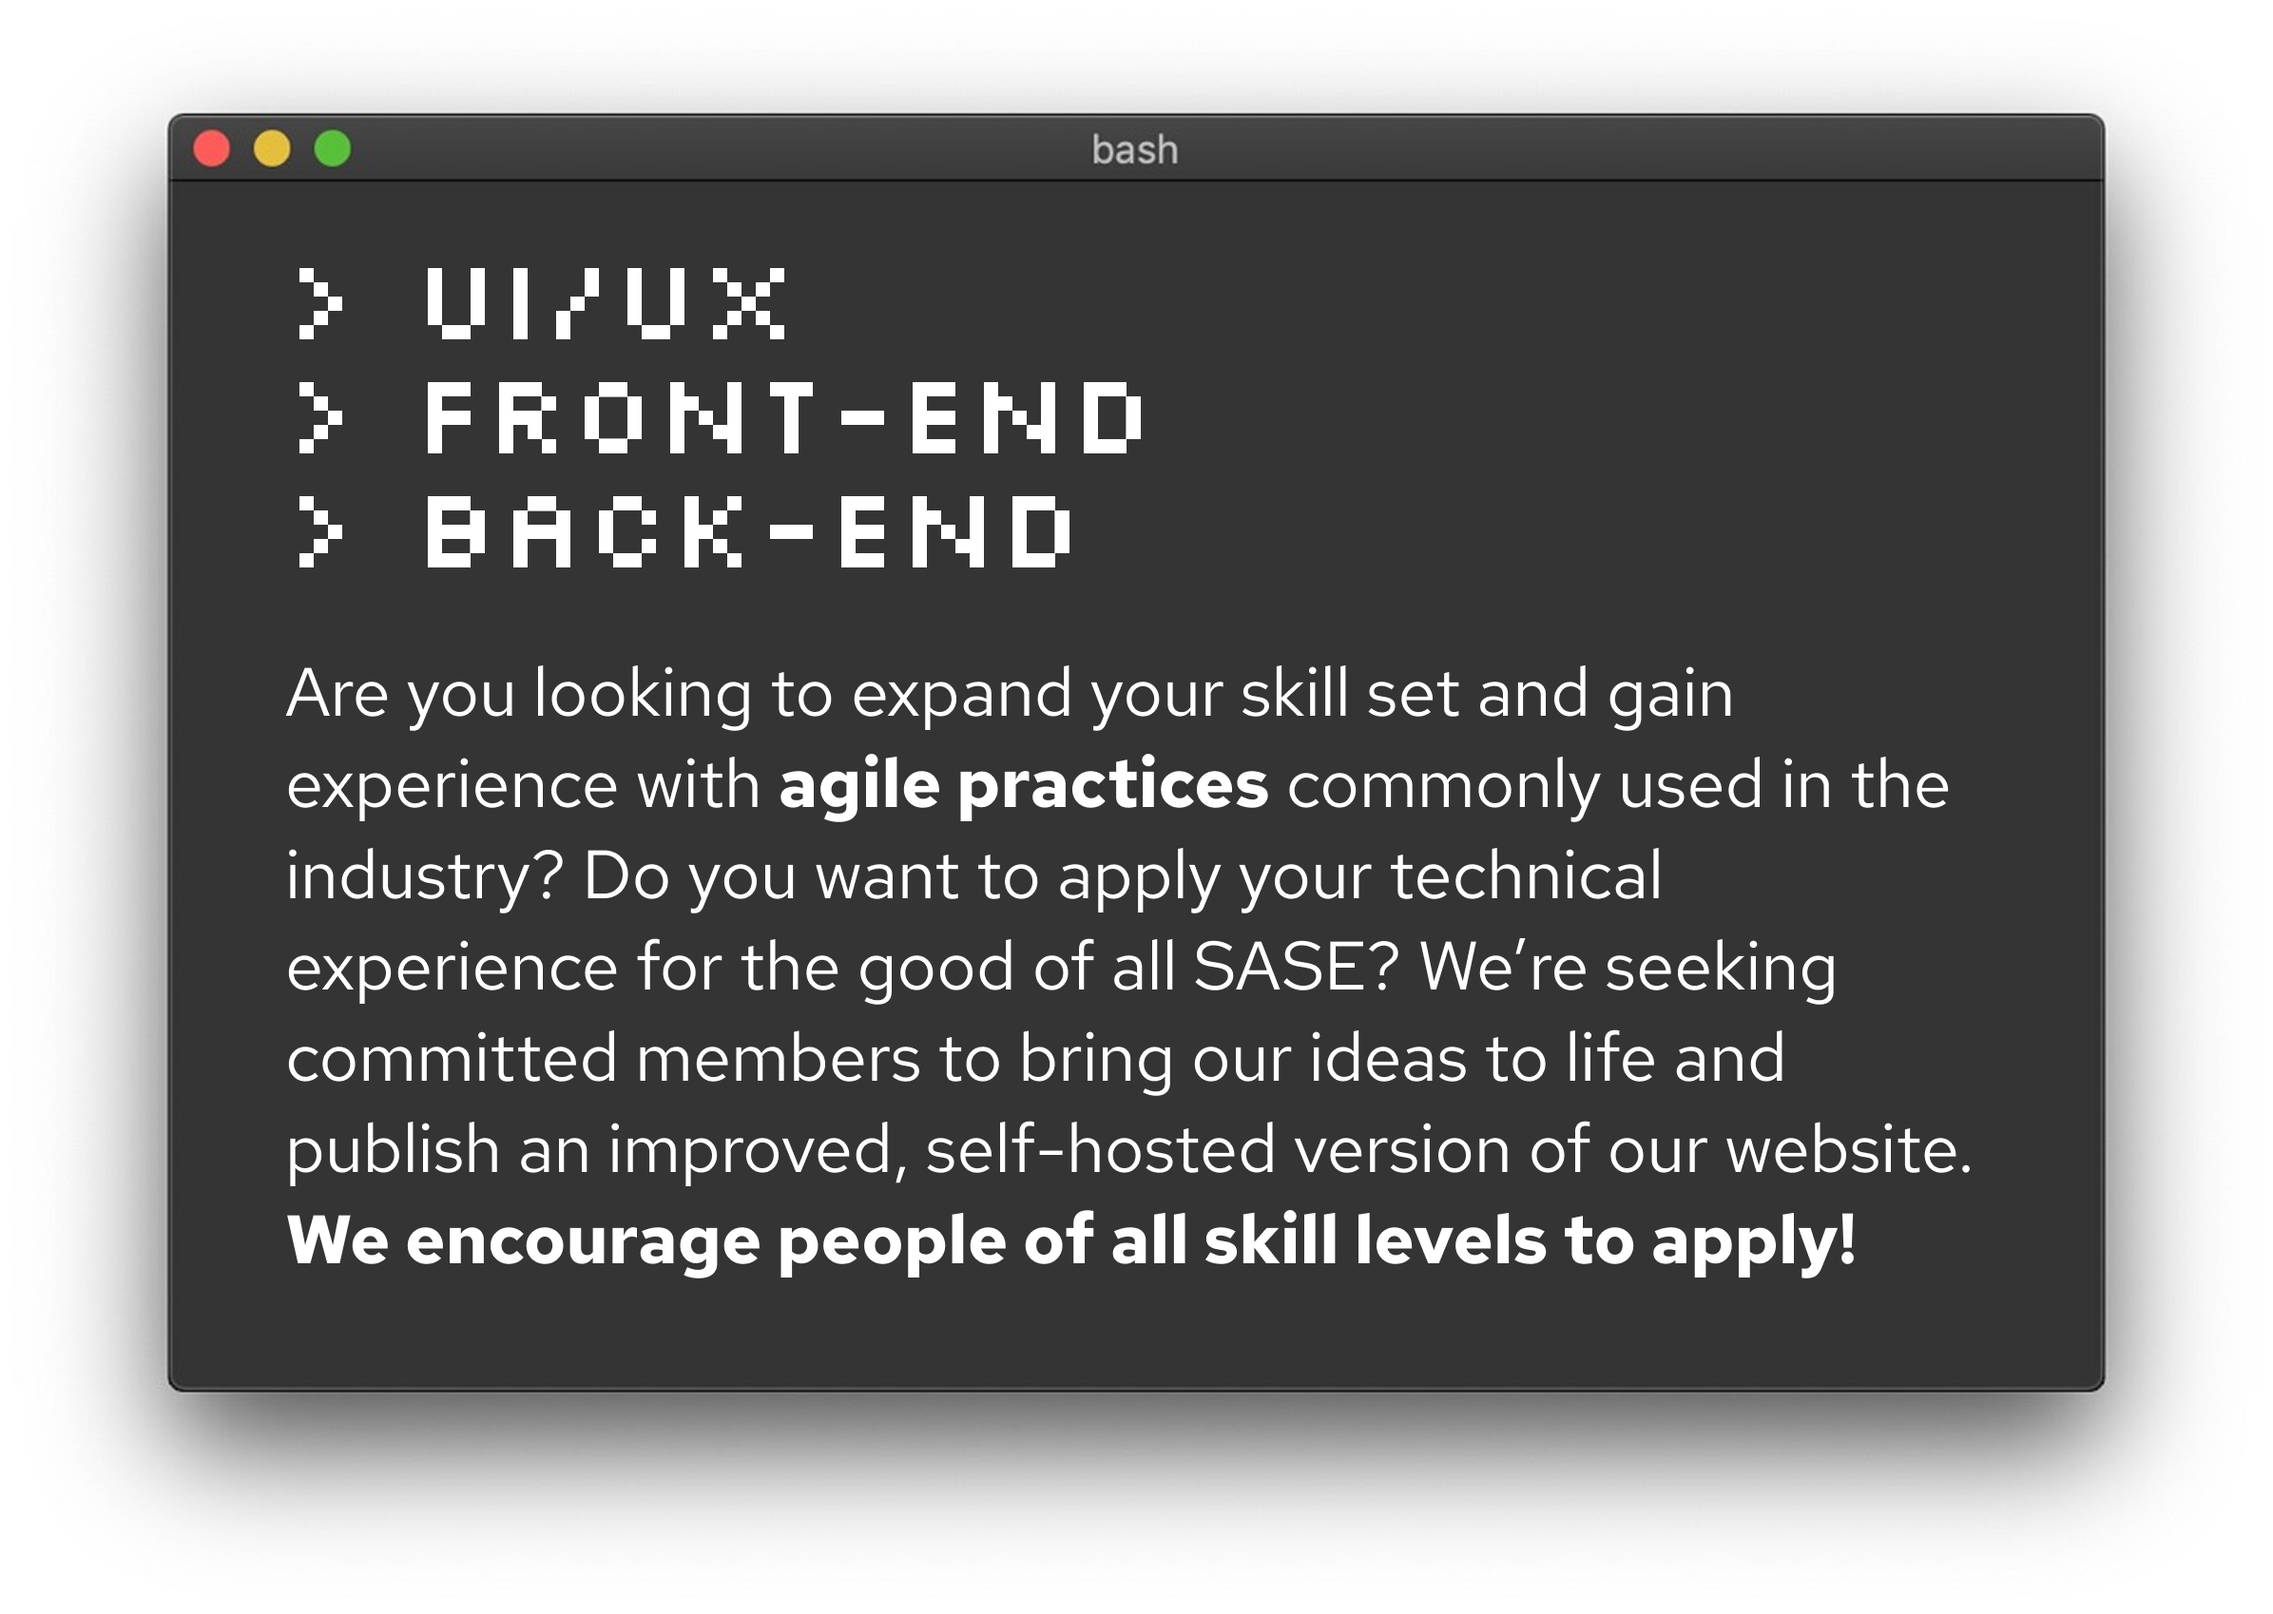
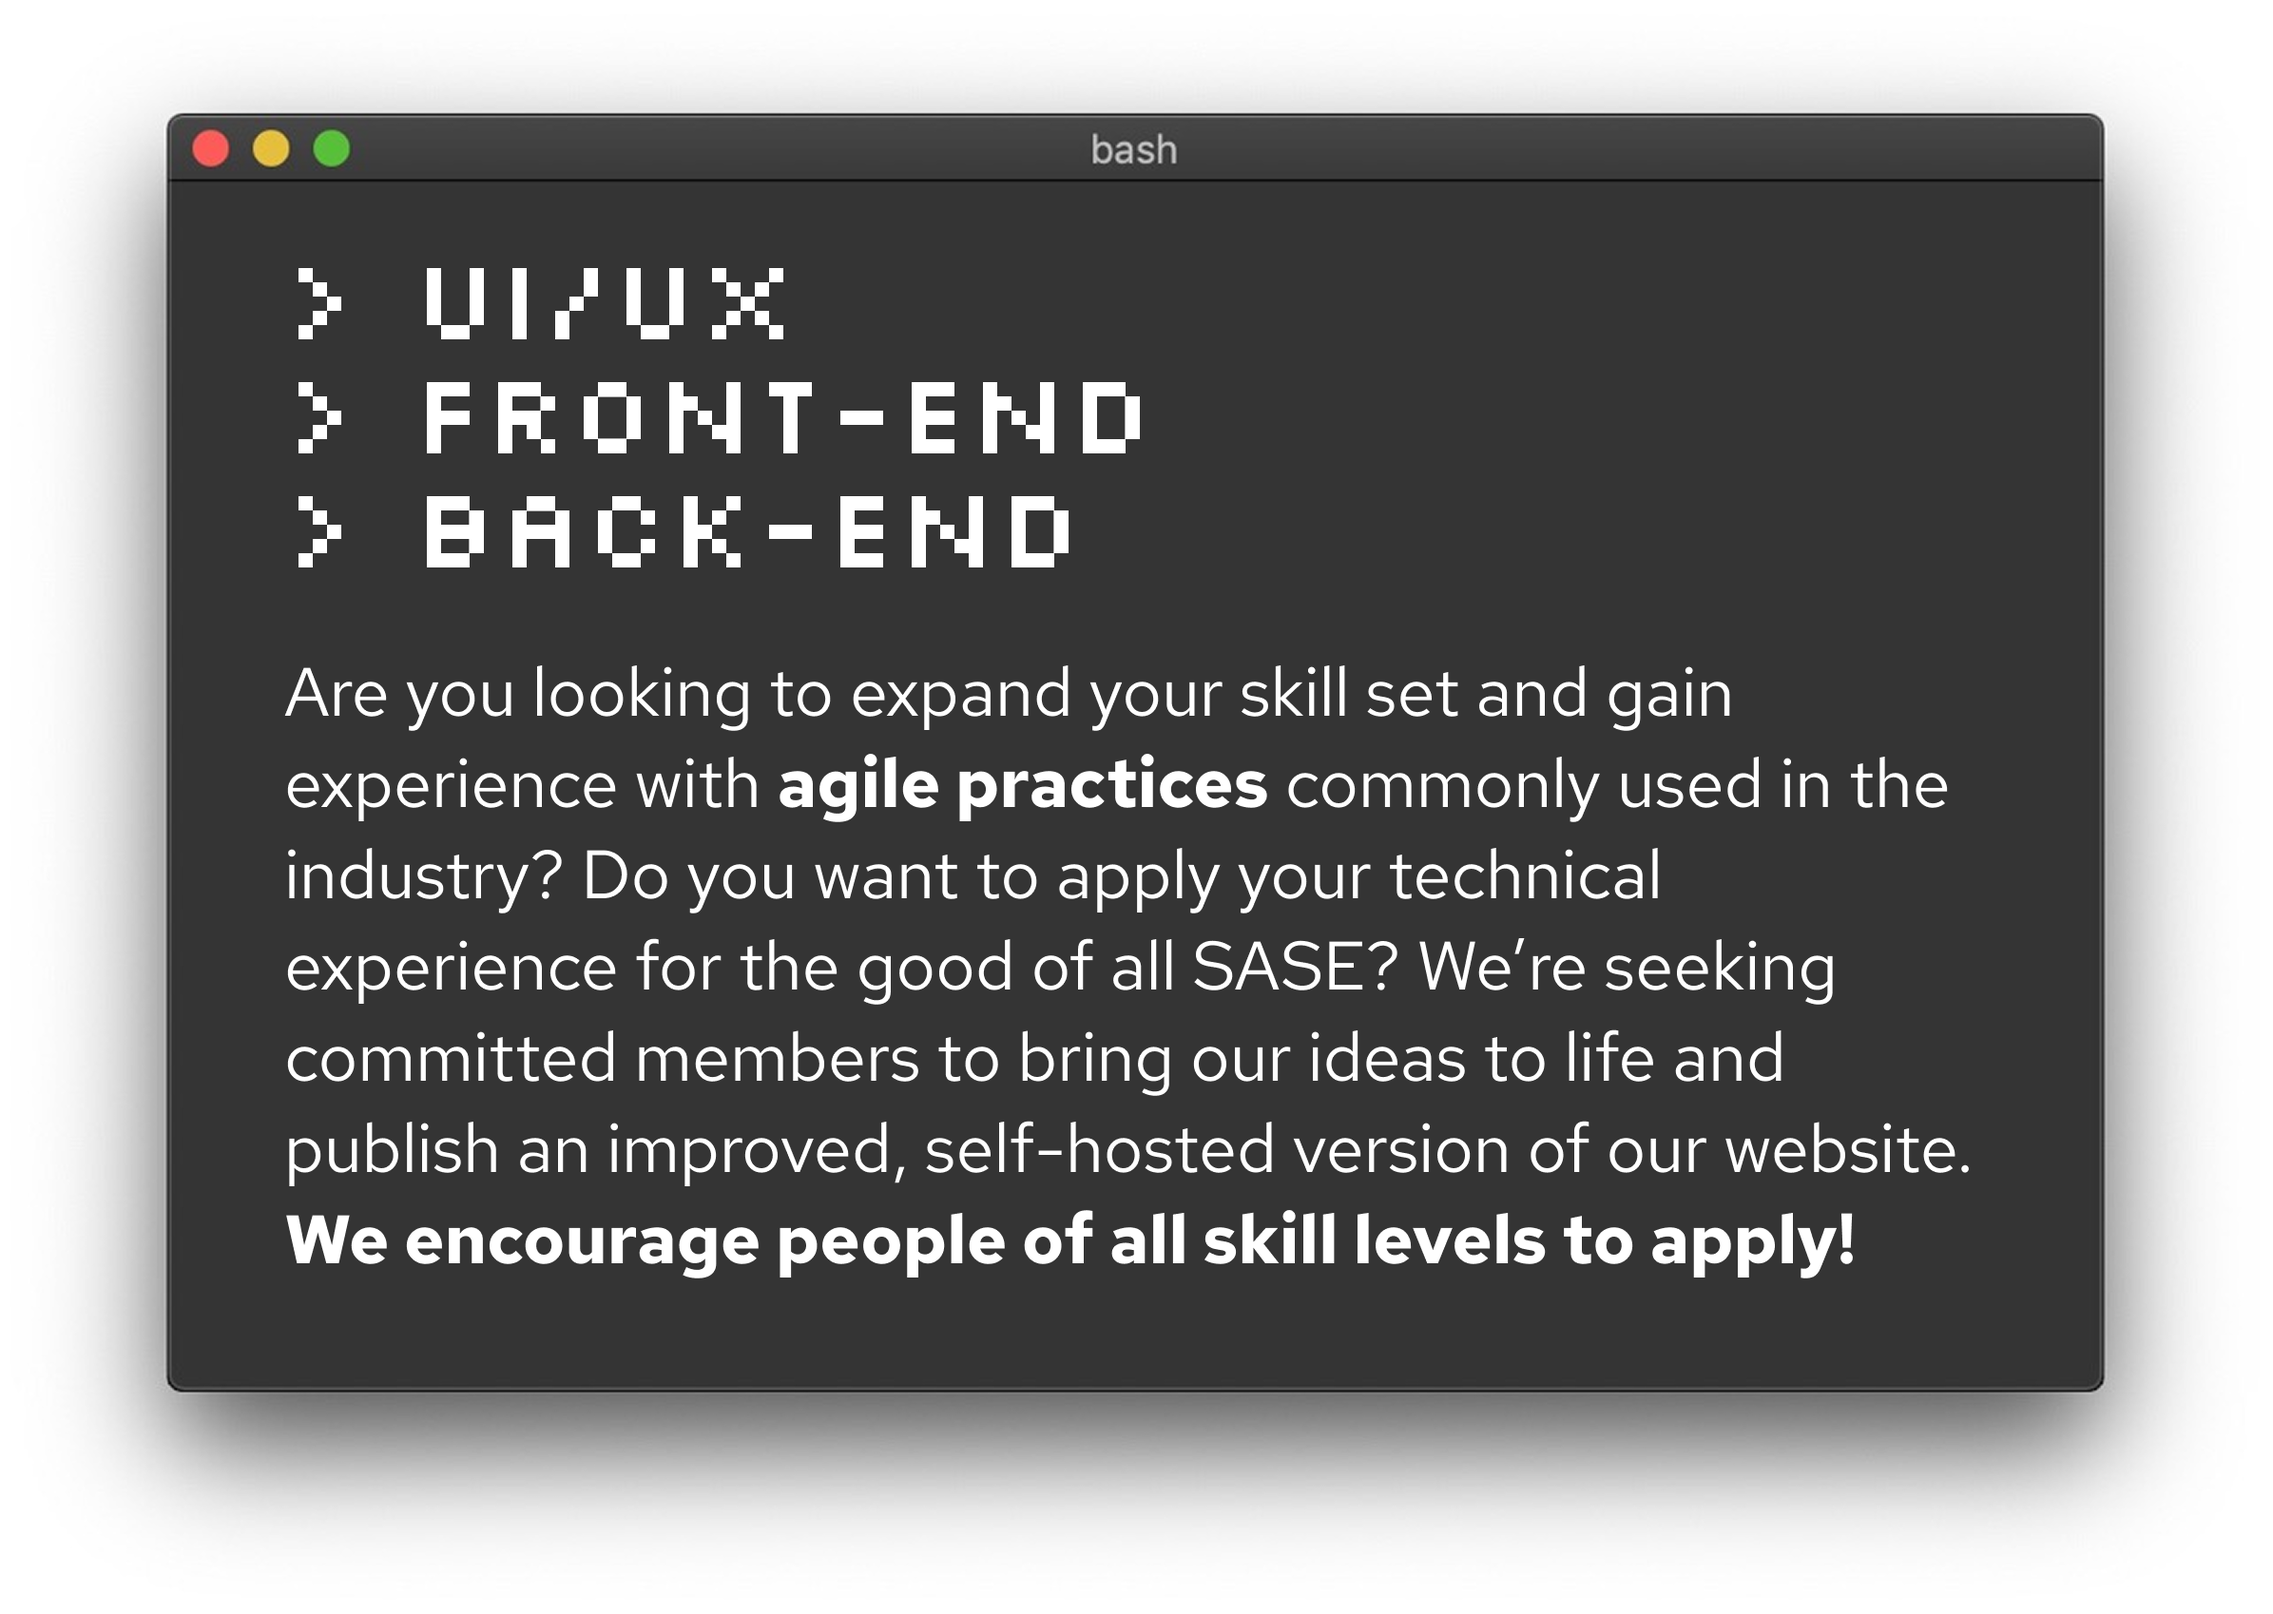
fix dark mode

diff --git a/src/client/routes/webdev.tsx b/src/client/routes/webdev.tsx
@@ -1,3 +1,4 @@
+import { DarkModeContext } from "@/client/components/custom_ui/DarkModeProvider";
 import { cn } from "@/shared/utils";
 import AadithiArjun from "@assets/webdev/AadithiArjun.jpeg";
 import GurleenDhillon from "@assets/webdev/GurleenDhillon.jpeg";
@@ -15,13 +16,14 @@ import WebTeamDescription from "@assets/webdev/WebDevTerminal.png";
 import WebTeamTitle from "@assets/webdev/WebTeam.png";
 import VincentLin from "@assets/webdev/VincentLin.jpeg";
 import RickyZhang from "@assets/webdev/WebmasterChair.jpg";
+import WebTeam from "@assets/webdev/WebTeam.png";
 import MemberCard from "@components/home/MemberCard";
 import MobileMemberCard from "@components/mobile/MobileMemberCard";
 import FAQ from "@components/programs/FAQCard";
 import { faqData } from "@components/programs/faqWebdev";
 import { useIsMobile } from "@hooks/useIsMobile";
 import { createFileRoute } from "@tanstack/react-router";
-import { useState } from "react";
+import { useContext, useState } from "react";
 import { imageUrls } from "../assets/imageUrls";
 import { seo } from "../utils/seo";
 
@@ -37,6 +39,7 @@ export const Route = createFileRoute("/webdev")({
   component: () => {
     const isMobile = useIsMobile();
     const [buttonIndex, setIndex] = useState(1);
+    const { darkMode } = useContext(DarkModeContext);
 
     const buttonState = (position: number) => {
       setIndex(position);
@@ -46,7 +49,13 @@ export const Route = createFileRoute("/webdev")({
       <div className="mt-12 flex min-h-screen flex-col items-center bg-background">
         <div className="-mt-10 flex w-full max-w-7xl flex-col sm:flex-row sm:items-center">
           <div className="relative mx-auto w-[75%] sm:w-2/5">
-            <img src={WebTeamTitle} alt="Web Team" className="mx-auto h-auto w-full sm:mx-0" />
+            <img
+              src={WebTeam}
+              alt="Web Team"
+              className={cn(`mx-auto h-auto w-full sm:mx-0`, {
+                invert: !darkMode,
+              })}
+            />
           </div>
           <div className="relative w-full sm:w-4/5">
             <img src={WebTeamDescription} alt="Terminal" className="h-auto w-full" />
@@ -77,9 +86,12 @@ export const Route = createFileRoute("/webdev")({
             </div>
           </div>
           <div
-            className={cn(`mx-auto mt-10 flex max-w-2xl rounded-full border-2 border-black bg-muted font-redhat text-3xl font-medium`, {
-              "max-w-sm text-xl": isMobile,
-            })}
+            className={cn(
+              `mx-auto mt-10 flex max-w-2xl rounded-full border-2 border-black bg-muted font-redhat text-3xl font-medium dark:border-white`,
+              {
+                "max-w-sm text-xl": isMobile,
+              },
+            )}
           >
             <button
               onClick={() => setIndex(1)}
@@ -173,20 +185,34 @@ export const Route = createFileRoute("/webdev")({
               {buttonIndex === 2 && (
                 <>
                   <div className="mx-auto h-1 w-[95%] bg-gradient-to-l from-saseBlue to-saseGreen" />
-                  <MobileMemberCard image={KenzoFukuda} name="Kenzo Fukuda" role="Frontend & UI/UX" textColor="blue" quote="test!" imageSide="left" />
+                  <MobileMemberCard
+                    image={KenzoFukuda}
+                    name="Kenzo Fukuda"
+                    role="Frontend & UI/UX"
+                    textColor="blue"
+                    quote="i love sase!"
+                    imageSide="left"
+                  />
                   <div className="mx-auto h-1 w-[95%] bg-gradient-to-l from-saseGreen to-saseBlue" />
                   <MobileMemberCard
                     image={AadithiArjun}
                     name="Aadithi Arjun"
                     role="Frontend & UI/UX"
                     textColor="green"
-                    quote="test!!"
+                    quote="i love sase!"
                     imageSide="right"
                   />
                   <div className="mx-auto h-1 w-[95%] bg-gradient-to-l from-saseBlue to-saseGreen" />
-                  <MobileMemberCard image={VincentLin} name="Vincent Lin" role="Backend" textColor="blue" quote="test!!!" imageSide="left" />
+                  <MobileMemberCard image={VincentLin} name="Vincent Lin" role="Backend" textColor="blue" quote="i love sase!" imageSide="left" />
                   <div className="mx-auto h-1 w-[95%] bg-gradient-to-l from-saseGreen to-saseBlue" />
-                  <MobileMemberCard image={JordanKusuda} name="Jordan Kusuda" role="Backend" textColor="green" quote="test!!!!" imageSide="right" />
+                  <MobileMemberCard
+                    image={JordanKusuda}
+                    name="Jordan Kusuda"
+                    role="Backend"
+                    textColor="green"
+                    quote="i love sase!"
+                    imageSide="right"
+                  />
                 </>
               )}
             </>
@@ -235,16 +261,16 @@ export const Route = createFileRoute("/webdev")({
                 {/* Semester Project Team Leads */}
                 {buttonIndex === 2 && (
                   <>
-                    <MemberCard image={KenzoFukuda} name="Kenzo Fukuda" role="Frontend & UI/UX" textColor="green" quote="test!" />
-                    <MemberCard image={AadithiArjun} name="Aadithi Arjun" role="Frontend & UI/UX" textColor="green" quote="test!!" />
-                    <MemberCard image={VincentLin} name="Vincent Lin" role="Backend" textColor="green" quote="test!!!" />
-                    <MemberCard image={JordanKusuda} name="Jordan Kusuda" role="Backend" textColor="green" quote="test!!!!" />
+                    <MemberCard image={KenzoFukuda} name="Kenzo Fukuda" role="Frontend & UI/UX" textColor="green" quote="i love sase!" />
+                    <MemberCard image={AadithiArjun} name="Aadithi Arjun" role="Frontend & UI/UX" textColor="green" quote="i love sase!" />
+                    <MemberCard image={VincentLin} name="Vincent Lin" role="Backend" textColor="green" quote="i love sase!" />
+                    <MemberCard image={JordanKusuda} name="Jordan Kusuda" role="Backend" textColor="green" quote="i love sase!" />
                   </>
                 )}
               </div>
             </div>
           )}
-          <div className="bg-[#F5F5F5] pb-16 pt-4">
+          <div className="bg-[#F5F5F5] pb-16 pt-4 dark:bg-[#040716]">
             <div className="mx-auto w-full max-w-7xl">
               <header className="mb-12 flex items-center px-5">
                 <div className="mr-3 h-12 w-1.5 bg-saseGreen"></div>
